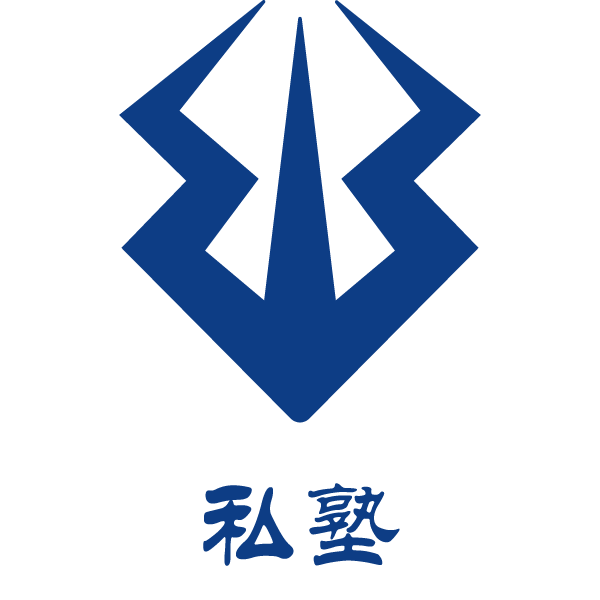
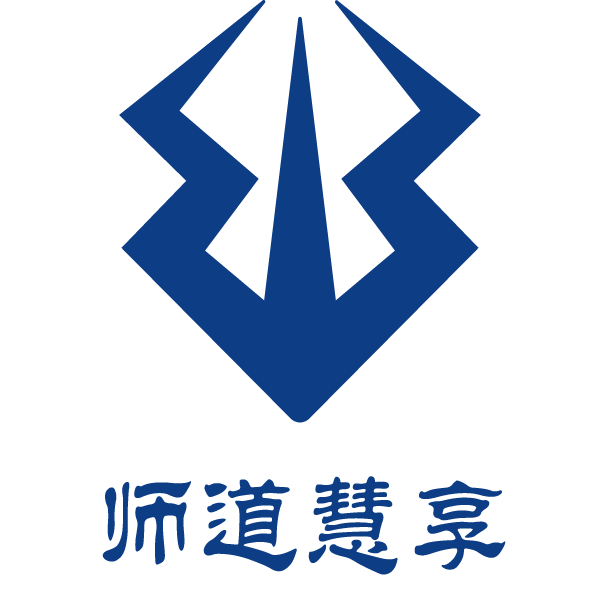
二维码进入调试

Changed region(s): [[0.15, 0.78, 0.66, 0.96], [0.69, 0.78, 0.84, 0.96]]

diff --git a/PrometheusWxApplet/pages/curriculum/curriculumDetail/curriculumDetail.js b/PrometheusWxApplet/pages/curriculum/curriculumDetail/curriculumDetail.js
@@ -157,17 +157,17 @@ Page({
      * 生命周期函数--监听页面加载
      */
     onLoad: function(options) {
-        console.log("onload获取scene值：", options);        
-        console.log("onload获取scene值：", decodeURIComponent(options.scene));
-
         let that = this;
-        this.setData({
-            id: options.id,
-            courseName: options.courseName
-        })
-        wx.setNavigationBarTitle({
-            title: options.courseName,
-        })
+        if (options.scene){     //扫二维码进入
+            this.setData({
+                id: options.scene
+            })
+        } else {                                    //列表点击进入
+            this.setData({
+                id: options.id
+            })
+        }
+        
         if (wx.getStorageSync("token")) {
             this.setData({
                 authorization: wx.getStorageSync("Authorization"),
@@ -198,9 +198,14 @@ Page({
                 success(res) {
                     if (res.statusCode == 200) {
                         that.setData({
+                        
+                            courseName:res.data.name,
                             videoAddress: res.data.videoAddress,
                             describe: res.data.describe,
                             courseTypeAndSpecial: res.data.course_type.name + "·" + res.data.special_column.name
+                        })
+                        wx.setNavigationBarTitle({
+                            title: res.data.name
                         })
                     } else if (res.statusCode == 409) {
                         wx.setStorageSync("token", res.data.token);
@@ -302,7 +307,7 @@ Page({
      */
     onShareAppMessage: function(res) {
         return {
-            title: 'Prometheus',
+            title: '师道慧享',
             path: '/pages/curriculum/curriculumDetail/curriculumDetail?id=' + this.data.id + "&courseName=" + this.data.courseName,
             success: function(res) {
                 wx.showToast({
@@ -317,10 +322,5 @@ Page({
                 })
             }
         }
-    },
-    // onPageScroll:function(res){
-    //     this.setData({
-    //         marginTop: res.scrollTop
-    //     })
-    // }
+    }
 })

diff --git a/PrometheusWxApplet/pages/Myinfo/Myinfo.js b/PrometheusWxApplet/pages/Myinfo/Myinfo.js
@@ -12,6 +12,11 @@ Page({
         wx.scanCode({
             onlyFromCamera: false,
             success: function(res) {
+                
+                var path = "/" + res.path;
+                wx.navigateTo({
+                    url: path,
+                })
                 console.log('相机扫码结果：', res);
                 console.log('result', res.result);
                 console.log('path', res.path);
@@ -23,12 +28,12 @@ Page({
             url: app.globalData.pageUrl.myCollect,
         })
     },
-    clearStorageClick: function(event) {
-        wx.clearStorageSync();
-        wx.showToast({
-            title: '清除缓存成功',
-        })
-    },
+    // clearStorageClick: function(event) {
+    //     wx.clearStorageSync();
+    //     wx.showToast({
+    //         title: '清除缓存成功',
+    //     })
+    // },
     /**
      * 生命周期函数--监听页面加载
      */

diff --git a/PrometheusFrontend/src/components/user.vue b/PrometheusFrontend/src/components/user.vue
@@ -44,7 +44,6 @@ export default {
 	},
 	methods:{
 		pageChange(index){
-			console.log(index);
             this.offset  = (index-1)*10;
             let that = this,
 				getDataUrl = globel_.serverHost+ globel_.configAPI.getUser + this.offset;
@@ -63,12 +62,10 @@ export default {
         let that = this;
         let getDataUrl = globel_.serverHost+ globel_.configAPI.getUser + this.offset;
 		this.$http.get( getDataUrl ).then(function(result){
-            console.log(result);
 			that.$Loading.finish();
 			that.dataList = result.data.rows;
 			that.total = result.data.count;
 		}).catch(function(err){
-            console.log(err)
 			that.$Loading.error();
 			that.$Message.error({duration:3,content:err});
 		})

diff --git a/PrometheusWxApplet/pages/Myinfo/myCollect/myCollect.js b/PrometheusWxApplet/pages/Myinfo/myCollect/myCollect.js
@@ -64,8 +64,12 @@ Page({
                 "Authorization": this.data.authorization
             },
             success(res) {
+                let dataListArr = res.data.rows;
+                for (let i = 0; i < res.data.rows.length; i++) {
+                    dataListArr[i].course.duration = parseInt(res.data.rows[i].course.duration / 60) + ":" + (parseInt(res.data.rows[i].course.duration % 60 / 10) ? res.data.rows[i].course.duration % 60 : "0" + res.data.rows[i].course.duration % 60);
+                }
                 that.setData({
-                    courseDataList: res.data.rows
+                    courseDataList: dataListArr
                 })
             }
         })

diff --git a/PrometheusFrontend/src/components/comment.vue b/PrometheusFrontend/src/components/comment.vue
@@ -114,7 +114,6 @@ export default {
         let that = this;
 		this.$Loading.start();
 		let getDataUrl = globel_.serverHost+ globel_.configAPI.getCommentData + this.offset;
-        console.log(getDataUrl);
 		this.$http.get( getDataUrl ).then(function(result){
 			that.$Loading.finish();
 			that.dataList = result.data.rows;

diff --git a/PrometheusFrontend/src/components/addSpecialColumn.vue b/PrometheusFrontend/src/components/addSpecialColumn.vue
@@ -114,7 +114,6 @@ export default {
 	    submitClick() {
 			this.formItem.thumb = this.fileImage;
 	      	let that = this;
-			console.log("----",this.formItem);
 	      	this.$Loading.start();
 	      	if (this.id == 0) { //新建	post
 	        	this.$http.post(this.submitUrl, {

diff --git a/PrometheusWxApplet/pages/curriculum/curriculum.js b/PrometheusWxApplet/pages/curriculum/curriculum.js
@@ -143,7 +143,7 @@ Page({
      */
     onShareAppMessage: function(res) {
         return {
-            title: '私塾',
+            title: '师道慧享',
             path: app.globalData.pageUrl.curriculum,
             success: function(res) {
                 wx.showToast({

diff --git a/PrometheusWxApplet/app.js b/PrometheusWxApplet/app.js
@@ -15,7 +15,7 @@ App({
     },
     // 全局数据
     globalData: {
-        serverHost: "https://prometheus.design-engine.org",
+        serverHost: "https://bestpro.vip",
         
         // request数据请求路径
         globalAPI: {

diff --git a/PrometheusFrontend/src/components/articles.vue b/PrometheusFrontend/src/components/articles.vue
@@ -94,7 +94,6 @@ export default {
 		},
 		changeTap(index){
 			let articleId = this.dataList[index].id;
-			console.log(articleId);
 			this.$router.push({name:"addArticle",query:{id:articleId}});
 		},
 		removeTap(index){

diff --git a/PrometheusFrontend/src/components/articleType.vue b/PrometheusFrontend/src/components/articleType.vue
@@ -89,7 +89,6 @@ export default {
 		},
 		changeTap(index){
 			let typeId = this.dataList[index].id;
-			console.log(typeId);
 			this.$router.push({name:"addArticleType",query:{id:typeId}});
 		},
 		removeTap(index){
